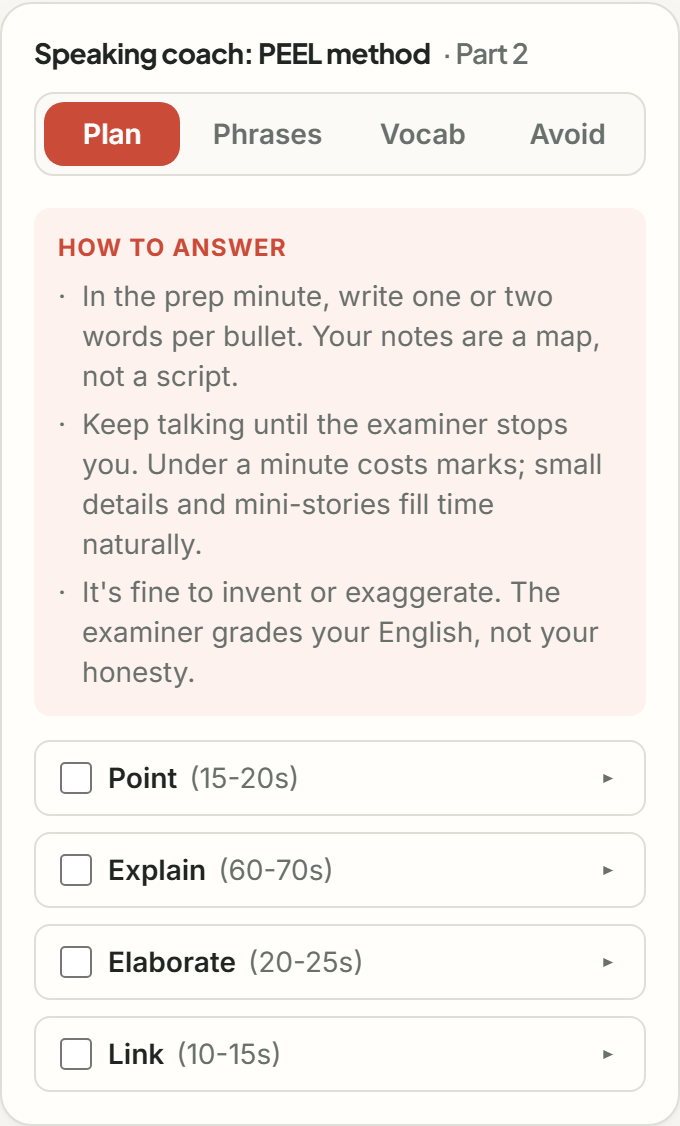
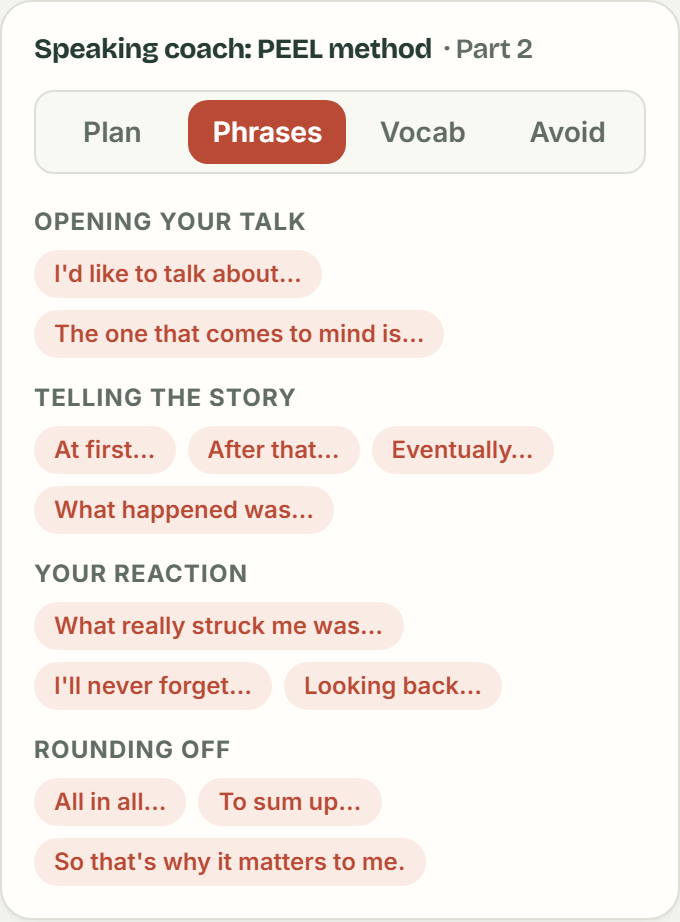
Sales website shows real screenshots of the current platform
The three platform pictures (lesson library, a Speaking Part 2 session,
the Speaking coach) were captures of the old design. Retaken from the
current platform by tools/capture-sales-screens.py against the local
stand-in, at twice the screen resolution, with each image's own size on
the page.

diff --git a/tools/capture-sales-screens.py b/tools/capture-sales-screens.py
@@ -1,0 +1,123 @@
+"""Capture the sales page's platform screenshots from the real platform.
+
+The sales website (SalesDemo.astro and the front page's browser window in
+NextChapter.astro) shows three screens. They used to be captures of an older
+design; since 1 October 2026 this script retakes them from the current
+platform, so they can be refreshed whenever the platform changes.
+
+Runs against the LOCAL gated build and its free stand-in (no real accounts,
+no payments, no AI calls):
+  node tools/mr-ez-dev-server.mjs --trial            (stand-in on 8841)
+  PUBLIC_ACCESS_MODE=trial ... npx astro build --outDir <dir>
+  npx astro preview --outDir <dir> --port 4441
+  python tools/capture-sales-screens.py
+
+It signs up a synthetic @example.test student, gives it complimentary access
+through the stand-in's helper (so every screen is open), and writes:
+  public/pics/next-chapter/platform-learn.jpg            lesson library
+  public/pics/next-chapter/platform-speaking-inside.png  Part 2 session with the prep timer
+  public/pics/next-chapter/platform-speaking-coach.png   the Speaking coach panel
+Every image is taken at twice the screen's resolution so it stays sharp.
+"""
+import json
+import os
+import sys
+import time
+import urllib.parse
+import urllib.request
+from pathlib import Path
+
+from playwright.sync_api import sync_playwright
+
+SITE = os.environ.get("GATED_BASE", "http://localhost:4441/ielts-website")
+STANDIN = os.environ.get("GATED_STANDIN", "http://127.0.0.1:8841")
+OUT = Path(__file__).resolve().parents[1] / "public" / "pics" / "next-chapter"
+PASSWORD = "Synthetic-Capture-1"
+HYDRATED = "() => [...document.querySelectorAll('astro-island[ssr]')].every(el => ['visible', 'media'].includes(el.getAttribute('client')))"
+
+
+def settle(page):
+    page.wait_for_load_state("domcontentloaded")
+    page.wait_for_function(HYDRATED, timeout=45000)
+    page.wait_for_timeout(1200)
+
+
+def give_access(email):
+    req = urllib.request.Request(STANDIN + "/__access/complimentary", data=json.dumps({"email": email, "action": "give"}).encode(),
+                                 method="POST", headers={"Content-Type": "application/json", "Origin": SITE.rsplit("/", 1)[0]})
+    with urllib.request.urlopen(req) as r:
+        assert r.status == 200, r.status
+
+
+def sign_up(page, email):
+    page.goto(SITE + "/sign-up?next=" + urllib.parse.quote("/dashboard", safe=""), wait_until="domcontentloaded")
+    page.wait_for_selector("#signup-email", timeout=40000)
+    settle(page)
+    page.locator("#signup-email").fill(email)
+    page.locator("#signup-password").fill(PASSWORD)
+    if page.locator("#signup-confirm").count():
+        page.locator("#signup-confirm").fill(PASSWORD)
+    page.locator("button.auth-button[type=submit]").click()
+    # A made-up student: only the initials show, in the header's account button.
+    page.wait_for_selector("#profile-firstName", timeout=40000)
+    page.locator("#profile-firstName").fill("Aigerim")
+    page.locator("#profile-lastName").fill("Karimova")
+    page.locator("#profile-dob-day").select_option("4")
+    page.locator("#profile-dob-month").select_option("3")
+    page.locator("#profile-dob-year").select_option("2005")
+    page.locator("#profile-phone").fill("+7 701 234 56 78")
+    page.locator("#profile-city").fill("Almaty")
+    page.locator("#profile-occupation").fill("University student")
+    page.locator("#profile-source-friend").check(force=True)
+    page.locator("button.auth-button[type=submit]").click()
+    page.wait_for_url("**/dashboard**", timeout=40000)
+
+
+def main():
+    OUT.mkdir(parents=True, exist_ok=True)
+    with sync_playwright() as p:
+        browser = p.chromium.launch(args=["--use-fake-ui-for-media-stream", "--use-fake-device-for-media-stream"])
+        ctx = browser.new_context(viewport={"width": 1264, "height": 760}, device_scale_factor=2, locale="en-GB")
+        ctx.add_init_script("try{ localStorage.setItem('ielts.locale.v1','en') }catch(e){}")
+        ctx.grant_permissions(["microphone"], origin=SITE.split("/ielts-website")[0])
+        page = ctx.new_page()
+        email = f"capture-{int(time.time())}@example.test"
+        sign_up(page, email)
+        give_access(email)
+
+        # 1. The lesson library, as a student sees it.
+        page.goto(SITE + "/learn", wait_until="domcontentloaded")
+        settle(page)
+        page.wait_for_selector("text=Reading Overview", timeout=30000)
+        page.mouse.move(5, 740)
+        page.wait_for_timeout(800)
+        page.screenshot(path=str(OUT / "platform-learn.jpg"), type="jpeg", quality=88)
+
+        # 2. A Part 2 session: cue card, prep timer running, and the coach beside it.
+        page.set_viewport_size({"width": 1264, "height": 900})
+        page.goto(SITE + "/trainers/speaking", wait_until="domcontentloaded")
+        settle(page)
+        page.get_by_role("button", name="Start Part 2").click()
+        page.wait_for_selector("text=Speaking coach", timeout=20000)
+        page.get_by_role("button", name="Start prep time").click()
+        # The notes box stays empty: the cue card is picked at random, so typed notes could not match it.
+        page.wait_for_timeout(5500)
+        page.mouse.move(5, 5)
+        page.evaluate("document.activeElement && document.activeElement.blur()")
+        grid = page.locator("div.screen-in").first
+        grid.scroll_into_view_if_needed()
+        page.wait_for_timeout(500)
+        grid.screenshot(path=str(OUT / "platform-speaking-inside.png"))
+
+        # 3. The coach panel on its own, on its Phrases tab (the session above already shows Plan).
+        coach = page.locator("div.screen-in > div.lg\\:sticky").first
+        coach.get_by_text("Phrases", exact=True).click()
+        page.wait_for_timeout(600)
+        coach.screenshot(path=str(OUT / "platform-speaking-coach.png"))
+        browser.close()
+    for name in ("platform-learn.jpg", "platform-speaking-inside.png", "platform-speaking-coach.png"):
+        print(name, (OUT / name).stat().st_size // 1024, "KB")
+
+
+if __name__ == "__main__":
+    sys.exit(main())
